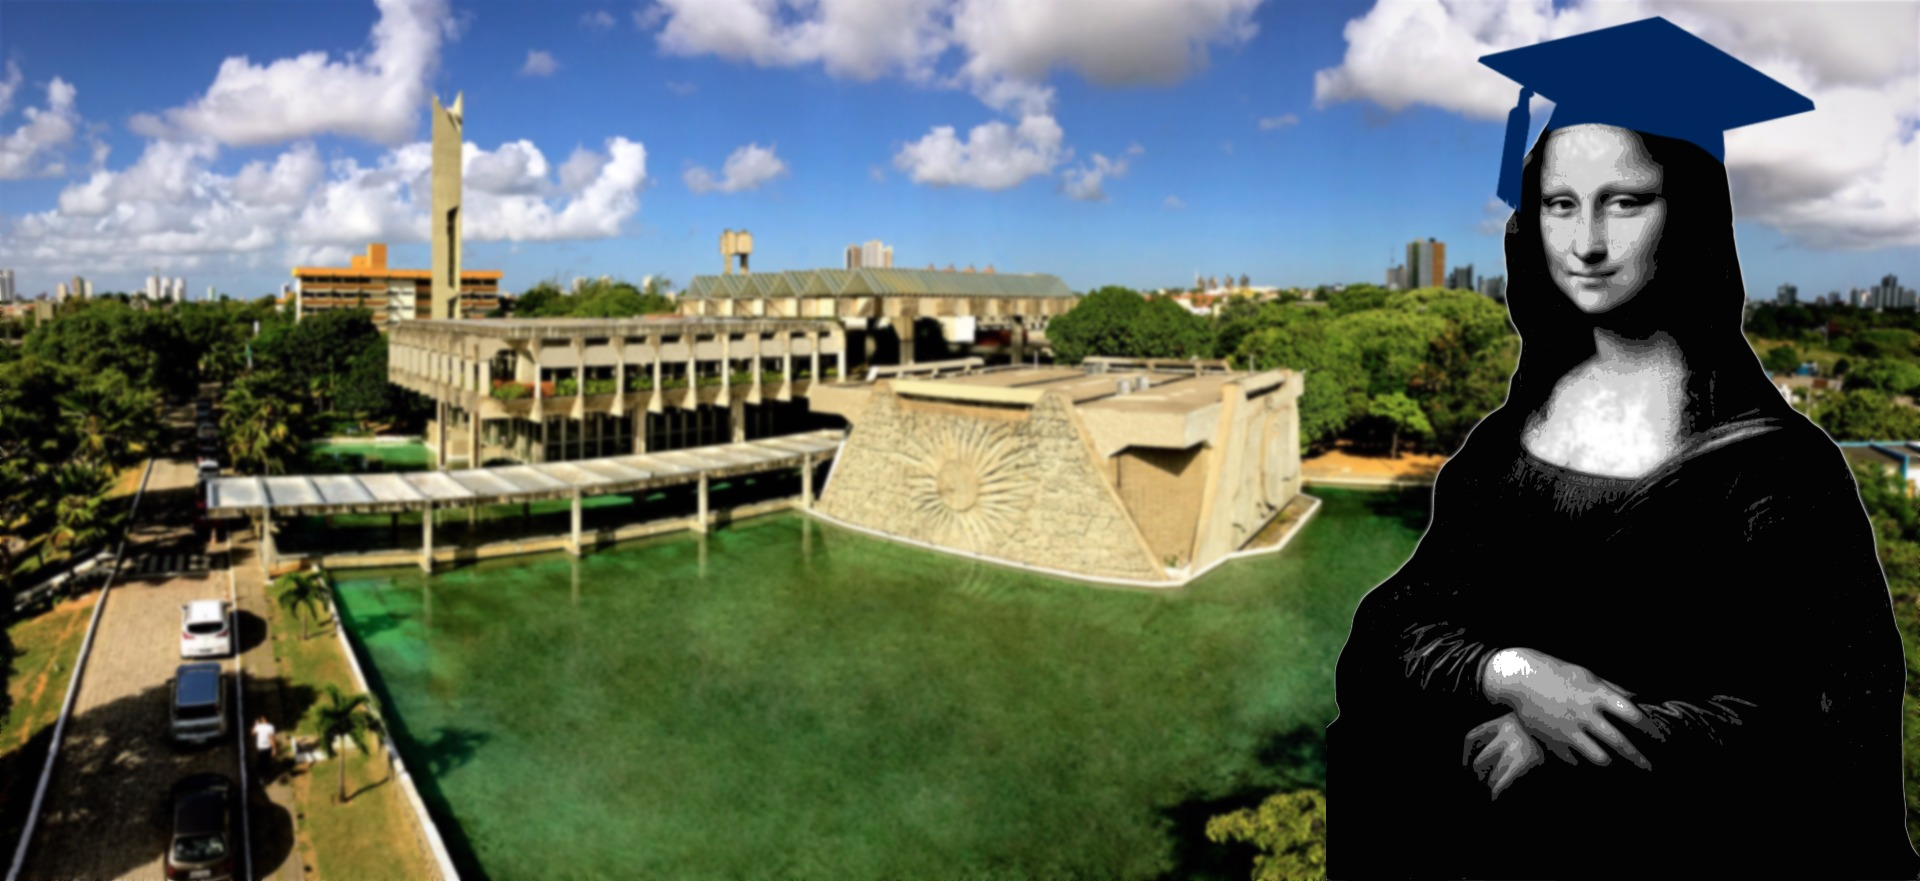
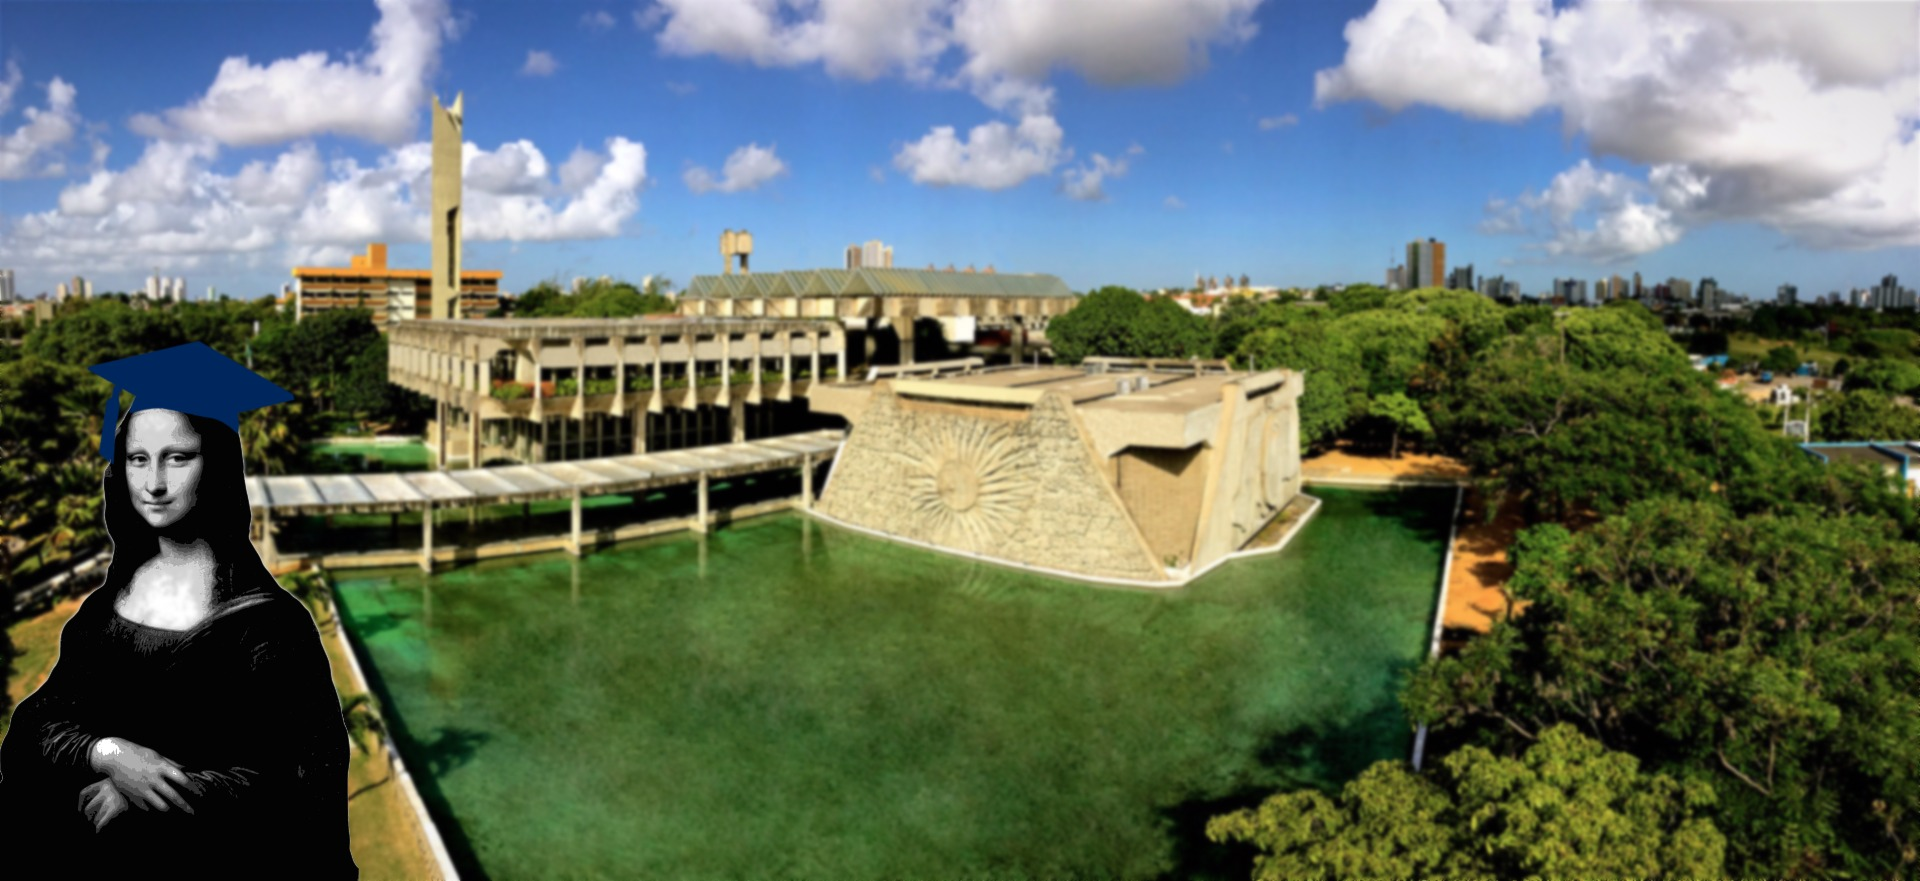
Finalizando index

Changed region(s): [[0.6875, 0.0, 1.0, 1.0], [0.0, 0.3678, 0.1875, 1.0]]

diff --git a/src/main/resources/templates/index.html b/src/main/resources/templates/index.html
@@ -1,63 +1,140 @@
 <!DOCTYPE html>
 <html lang="en" xmlns:th="http://www.thymeleaf.org">
-<head th:replace="~{layouts/main :: head}">
-</head>
-<body>
-    <nav th:replace="~{layouts/main :: navbar}"></nav>
+    <head th:replace="~{layouts/main :: head}">
+    </head>
+    <body>
+        <nav th:replace="~{layouts/main :: navbar}"></nav>
 
-    <header class="masthead text-center text-white">
-        <div id="carouselExampleIndicators" class="carousel slide" data-ride="carousel">
-            <ol class="carousel-indicators">
-                <li data-target="#carouselExampleIndicators" data-slide-to="0" class="active"></li>
-                <li data-target="#carouselExampleIndicators" data-slide-to="1"></li>
-                <li data-target="#carouselExampleIndicators" data-slide-to="2"></li>
-            </ol>
-            <div class="carousel-inner" role="listbox">
-                <!-- Slide One - Set the background image for this slide in the line below -->
-                <div class="carousel-item active" th:style="'background:url(' + @{/img/carousel/monalisa.jpg} + ');'">
-                    <div class="carousel-caption d-none d-md-block">
-                        <h1 class="display-4">MONALISA</h1>
-                        <p class="lead">Uma plataforma desenvolvida por <b>alunos</b> para <b>alunos</b> da universidade.</p>
+        <header class="masthead text-center text-white">
+            <div id="carouselExampleIndicators" class="carousel slide" data-ride="carousel">
+                <ol class="carousel-indicators">
+                    <li data-target="#carouselExampleIndicators" data-slide-to="0" class="active"></li>
+                    <li data-target="#carouselExampleIndicators" data-slide-to="1"></li>
+                    <li data-target="#carouselExampleIndicators" data-slide-to="2"></li>
+                </ol>
+                <div class="carousel-inner" role="listbox">
+                    <!-- Slide One - Set the background image for this slide in the line below -->
+                    <div class="carousel-item active" th:style="'background-image:url(' + @{/img/carousel/mona.jpg} + ');'">
+                        <div class="carousel-caption d-none d-md-block">
+                            <h1 class="display-4">Monalisa</h1>
+                            <p class="lead">Uma plataforma desenvolvida por <b>alunos</b> para <b>alunos</b> da universidade.
+                            </p>
+                        </div>
+                    </div>
+                    <!-- Slide Two - Set the background image for this slide in the line below -->
+                    <div class="carousel-item" th:style="'background-image:url(' + @{/img/carousel/estudo.jpg} + ');'">
+                        <div class="carousel-caption d-none d-md-block">
+                            <h1 class="display-4">Estudando em conjunto</h1>
+                            <p class="lead">
+                                Uma plataforma em que o aluno pode <b>compartilhar suas dificuldades, dúvidas, ou problemas</b>
+                                nos componentes curriculares do seu curso com os demais <b>alunos que já a estudaram
+                                e podem ajudá-los</b>.
+                            </p>
+                        </div>
+                    </div>
+                    <!-- Slide Three - Set the background image for this slide in the line below -->
+                    <div class="carousel-item" th:style="'background-image:url(' + @{/img/carousel/alunos.jpg} + ');'">
+                        <div class="carousel-caption d-none d-md-block">
+                            <h1 class="display-4">Compartilhando conhecimento</h1>
+                            <p class="lead">
+                                Todos os alunos podem ser monitores e <b>compartilhar os conhecimentos adiquiridos</b>
+                                nas disciplinas respondendo as dúvidas de <b>pessoas que precisam de ajuda</b>.
+                            </p>
+                        </div>
                     </div>
                 </div>
-                <!-- Slide Two - Set the background image for this slide in the line below -->
-                <div class="carousel-item" th:style="'background:url(' + @{/img/carousel/estudo.jpg} + ');'">
-                    <div class="carousel-caption d-none d-md-block">
-                        <h2 class="display-4">Estudando em conjunto</h2>
-                        <p class="lead">
-                            Uma plataforma em que o aluno pode <b>compartilhar suas dificuldades, dúvidas, ou problemas</b>
-                            nos componentes curriculares do seu curso com os demais <b>alunos que já a estudaram
-                            e podem ajudá-los</b>.
-                        </p>
+                <a class="carousel-control-prev" href="#carouselExampleIndicators" role="button" data-slide="prev">
+                    <span class="carousel-control-prev-icon" aria-hidden="true"></span>
+                    <span class="sr-only">Previous</span>
+                </a>
+                <a class="carousel-control-next" href="#carouselExampleIndicators" role="button" data-slide="next">
+                    <span class="carousel-control-next-icon" aria-hidden="true"></span>
+                    <span class="sr-only">Next</span>
+                </a>
+            </div>
+        </header>
+
+        <section id="sobre">
+            <div class="container">
+                <div class="row align-items-center">
+                    <div class="col-lg-6 order-lg-2">
+                        <div class="p-5">
+                            <img class="img-fluid rounded-circle" th:src="@{/img/index/01.jpg}" alt="">
+                        </div>
                     </div>
-                </div>
-                <!-- Slide Three - Set the background image for this slide in the line below -->
-                <div class="carousel-item" th:style="'background:url(' + @{/img/carousel/alunos.jpg} + ');'">
-                    <div class="carousel-caption d-none d-md-block">
-                        <h2 class="display-4">Compartilhando conhecimento</h2>
-                        <p class="lead">
-                            Todos os alunos podem ser monitores e <b>compartilhar os conhecimentos adiquiridos</b>
-                            nas disciplinas respondendo as dúvidas de <b>pessoas que precisam de ajuda</b>.
-                        </p>
+                    <div class="col-lg-6 order-lg-1">
+                        <div class="p-5">
+                            <h1 class="display-4">O que é a Monalisa?</h1>
+                            <p class="justify">A <b>Monalisa</b>, ou monitoria online,
+                                é uma plataforma que se propõe a oferecer um tipo de monitoria online para universitários.
+                                Aqui, os alunos podem seguir as disciplinas que forem do seu interesse e postar suas dúvidas,
+                                ajudarem outros alunos com suas dificuldades, compartilhar materiais, vídeo aulas, conhecimentos,
+                                dicas, experiências e etc.
+                            </p>
+                        </div>
                     </div>
                 </div>
             </div>
-            <a class="carousel-control-prev" href="#carouselExampleIndicators" role="button" data-slide="prev">
-                <span class="carousel-control-prev-icon" aria-hidden="true"></span>
-                <span class="sr-only">Previous</span>
-            </a>
-            <a class="carousel-control-next" href="#carouselExampleIndicators" role="button" data-slide="next">
-                <span class="carousel-control-next-icon" aria-hidden="true"></span>
-                <span class="sr-only">Next</span>
-            </a>
-        </div>
-    </header>
+        </section>
 
-    <script th:src="@{/vendor/jquery/jquery.min.js}"></script>
-    <script th:src="@{/vendor/bootstrap/js/bootstrap.bundle.min.js}" ></script>
+        <section>
+            <div class="container">
+                <div class="row align-items-center">
+                    <div class="col-lg-6">
+                        <div class="p-5">
+                            <img class="img-fluid rounded-circle" th:src="@{/img/index/02.jpg}" alt="">
+                        </div>
+                    </div>
+                    <div class="col-lg-6">
+                        <div class="p-5">
+                            <h2 class="display-4">O que a plataforma oferece?</h2>
+                            <p class="justify">
+                                A proposta do sistema é justamente permitir que alunos que provém do conhecimento
+                                em determinado conteúdo possam ajudar outros que estão estudando-o, seja respondendo
+                                dúvidas postadas, compartilhando materiais de estudo ou links para vídeos aulas,
+                                ou explicando como funciona a didática ou método avaliativo
+                                dos professores que ministrou sua turma.
+                            </p>
+                            <p class="justify">
+                                Ademais, um outro objetivo do sistema é permitir que haja uma monitoria online,
+                                com um aluno como monitor de determinada área de conhecimento que pode dar aulas online,
+                                marcar horários de monitorias presenciais, etc.
+                            </p>
+                        </div>
+                    </div>
+                </div>
+            </div>
+        </section>
 
-    <!-- Carousel JavaScript -->
-    <script th:src="@{/vendor/jquery/jquery.slim.min.js}" ></script>
-    <script th:src="@{/vendor/bootstrap/js/bootstrap.min.js}" ></script>
-</body>
+        <section>
+            <div class="container">
+                <div class="row align-items-center">
+                    <div class="col-lg-6 order-lg-2">
+                        <div class="p-5">
+                            <img class="img-fluid rounded-circle" th:src="@{/img/index/03.jpg}" alt="">
+                        </div>
+                    </div>
+                    <div class="col-lg-6 order-lg-1">
+                        <div class="p-5">
+                            <h2 class="display-4">Como posso usar?</h2>
+                            <p class="justify">
+                                Usar a Monalida é muito simples. Basta <a href="">entrar</a> na plataforma, seguir
+                                as disciplinas que você deseja acompanhar e pronto. Depois disso, é só interagir na plataforma
+                                como você achar melhor.
+                            </p>
+                        </div>
+                    </div>
+                </div>
+            </div>
+        </section>
+
+        <footer th:replace="~{layouts/main :: footer}"></footer>
+
+        <script th:src="@{/vendor/jquery/jquery.min.js}"></script>
+        <script th:src="@{/vendor/bootstrap/js/bootstrap.bundle.min.js}"></script>
+
+        <!-- Carousel JavaScript -->
+        <script th:src="@{/vendor/jquery/jquery.slim.min.js}"></script>
+        <script th:src="@{/vendor/bootstrap/js/bootstrap.min.js}"></script>
+    </body>
 </html>

diff --git a/src/main/resources/templates/layouts/main.html b/src/main/resources/templates/layouts/main.html
@@ -13,11 +13,11 @@
     <link href="https://fonts.googleapis.com/css?family=Lato:100,100i,300,300i,400,400i,700,700i,900,900i" rel="stylesheet">
 
     <!-- Custom styles for this template -->
-    <link th:href="@{/css/one-page-wonder.css}" rel="stylesheet">
+    <link th:href="@{/css/monalisa.css}" rel="stylesheet">
 </head>
 <body>
     <!-- Navigation -->
-    <nav class="navbar navbar-expand-lg navbar-dark navbar-custom fixed-top" th:fragment="navbar">
+    <nav class="navbar navbar-expand-lg navbar-dark navbar-custom fixed-top " th:fragment="navbar">
         <div class="container">
             <a class="navbar-brand" href="#">Monalisa</a>
             <button class="navbar-toggler" type="button" data-toggle="collapse" data-target="#navbarResponsive" aria-controls="navbarResponsive" aria-expanded="false" aria-label="Toggle navigation">
@@ -34,10 +34,8 @@
         </div>
     </nav>
 
-
-
     <!-- Footer -->
-    <footer class="py-5 bg-black">
+    <footer class="py-5 bg-black" th:fragment="footer">
         <div class="container">
             <p class="m-0 text-center text-white small">Copyright &copy; Monalisa 2019</p>
         </div>

diff --git a/src/main/resources/static/css/monalisa.css b/src/main/resources/static/css/monalisa.css
@@ -31,7 +31,7 @@ h6 {
 }
 
 .bg-black {
-  background-color: #03324c !important;
+  background-color: rgba(1, 32, 49) !important;
 }
 
 .rounded-pill {
@@ -41,7 +41,7 @@ h6 {
 .navbar-custom {
   padding-top: 1rem;
   padding-bottom: 1rem;
-  background-color: rgba(0, 0, 0, 0.7);
+  background-color: rgba(1, 32, 49, 0.7);
 }
 
 .navbar-custom .navbar-brand {
